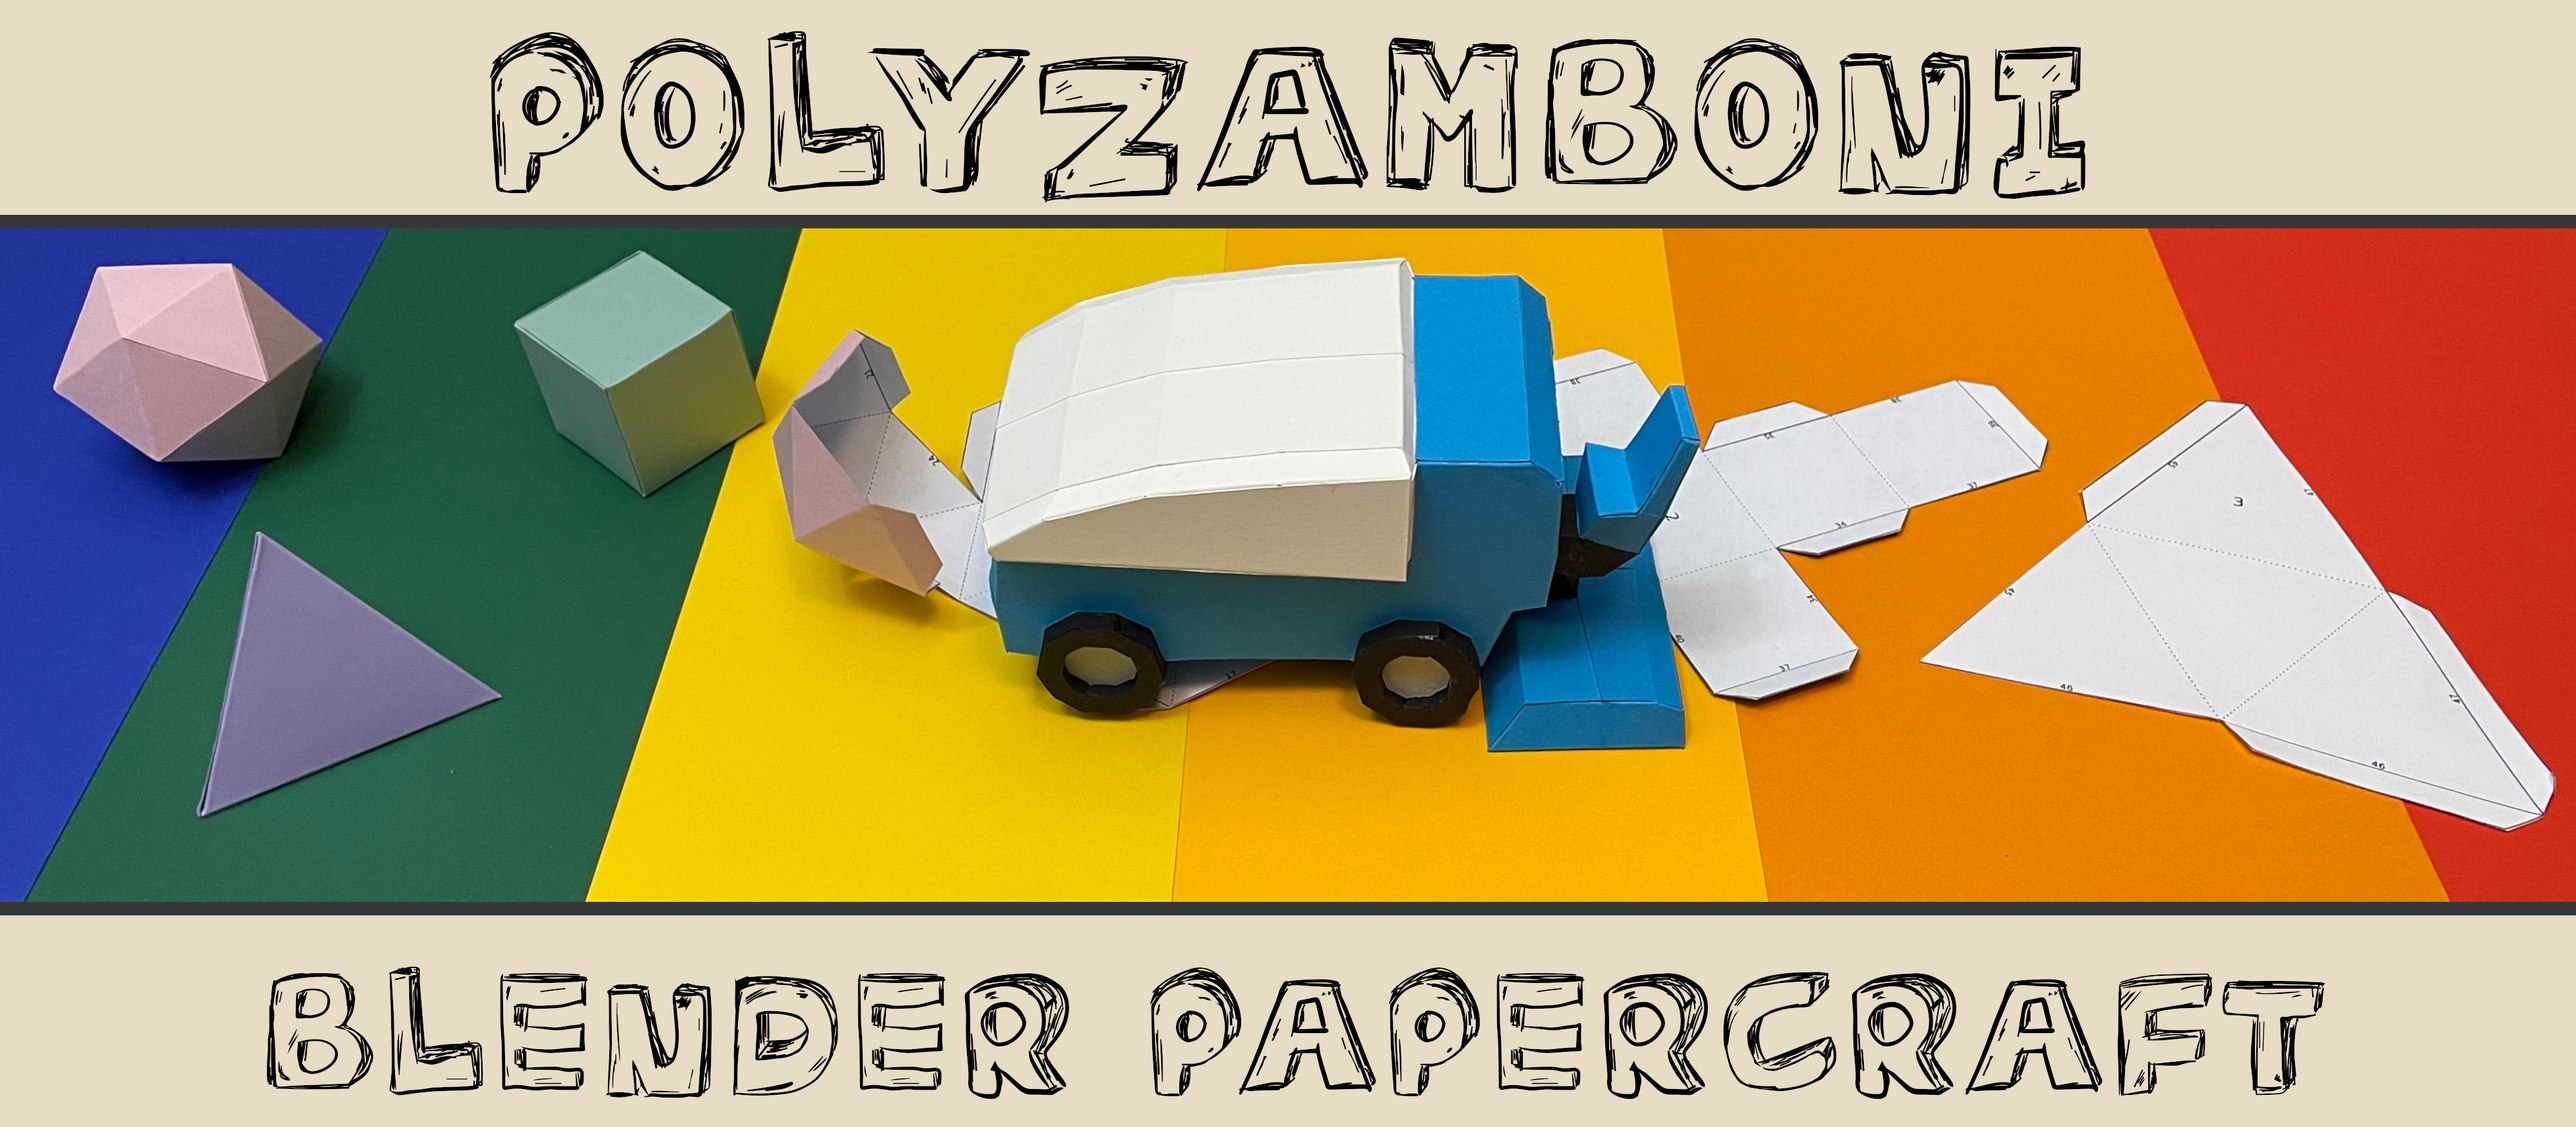
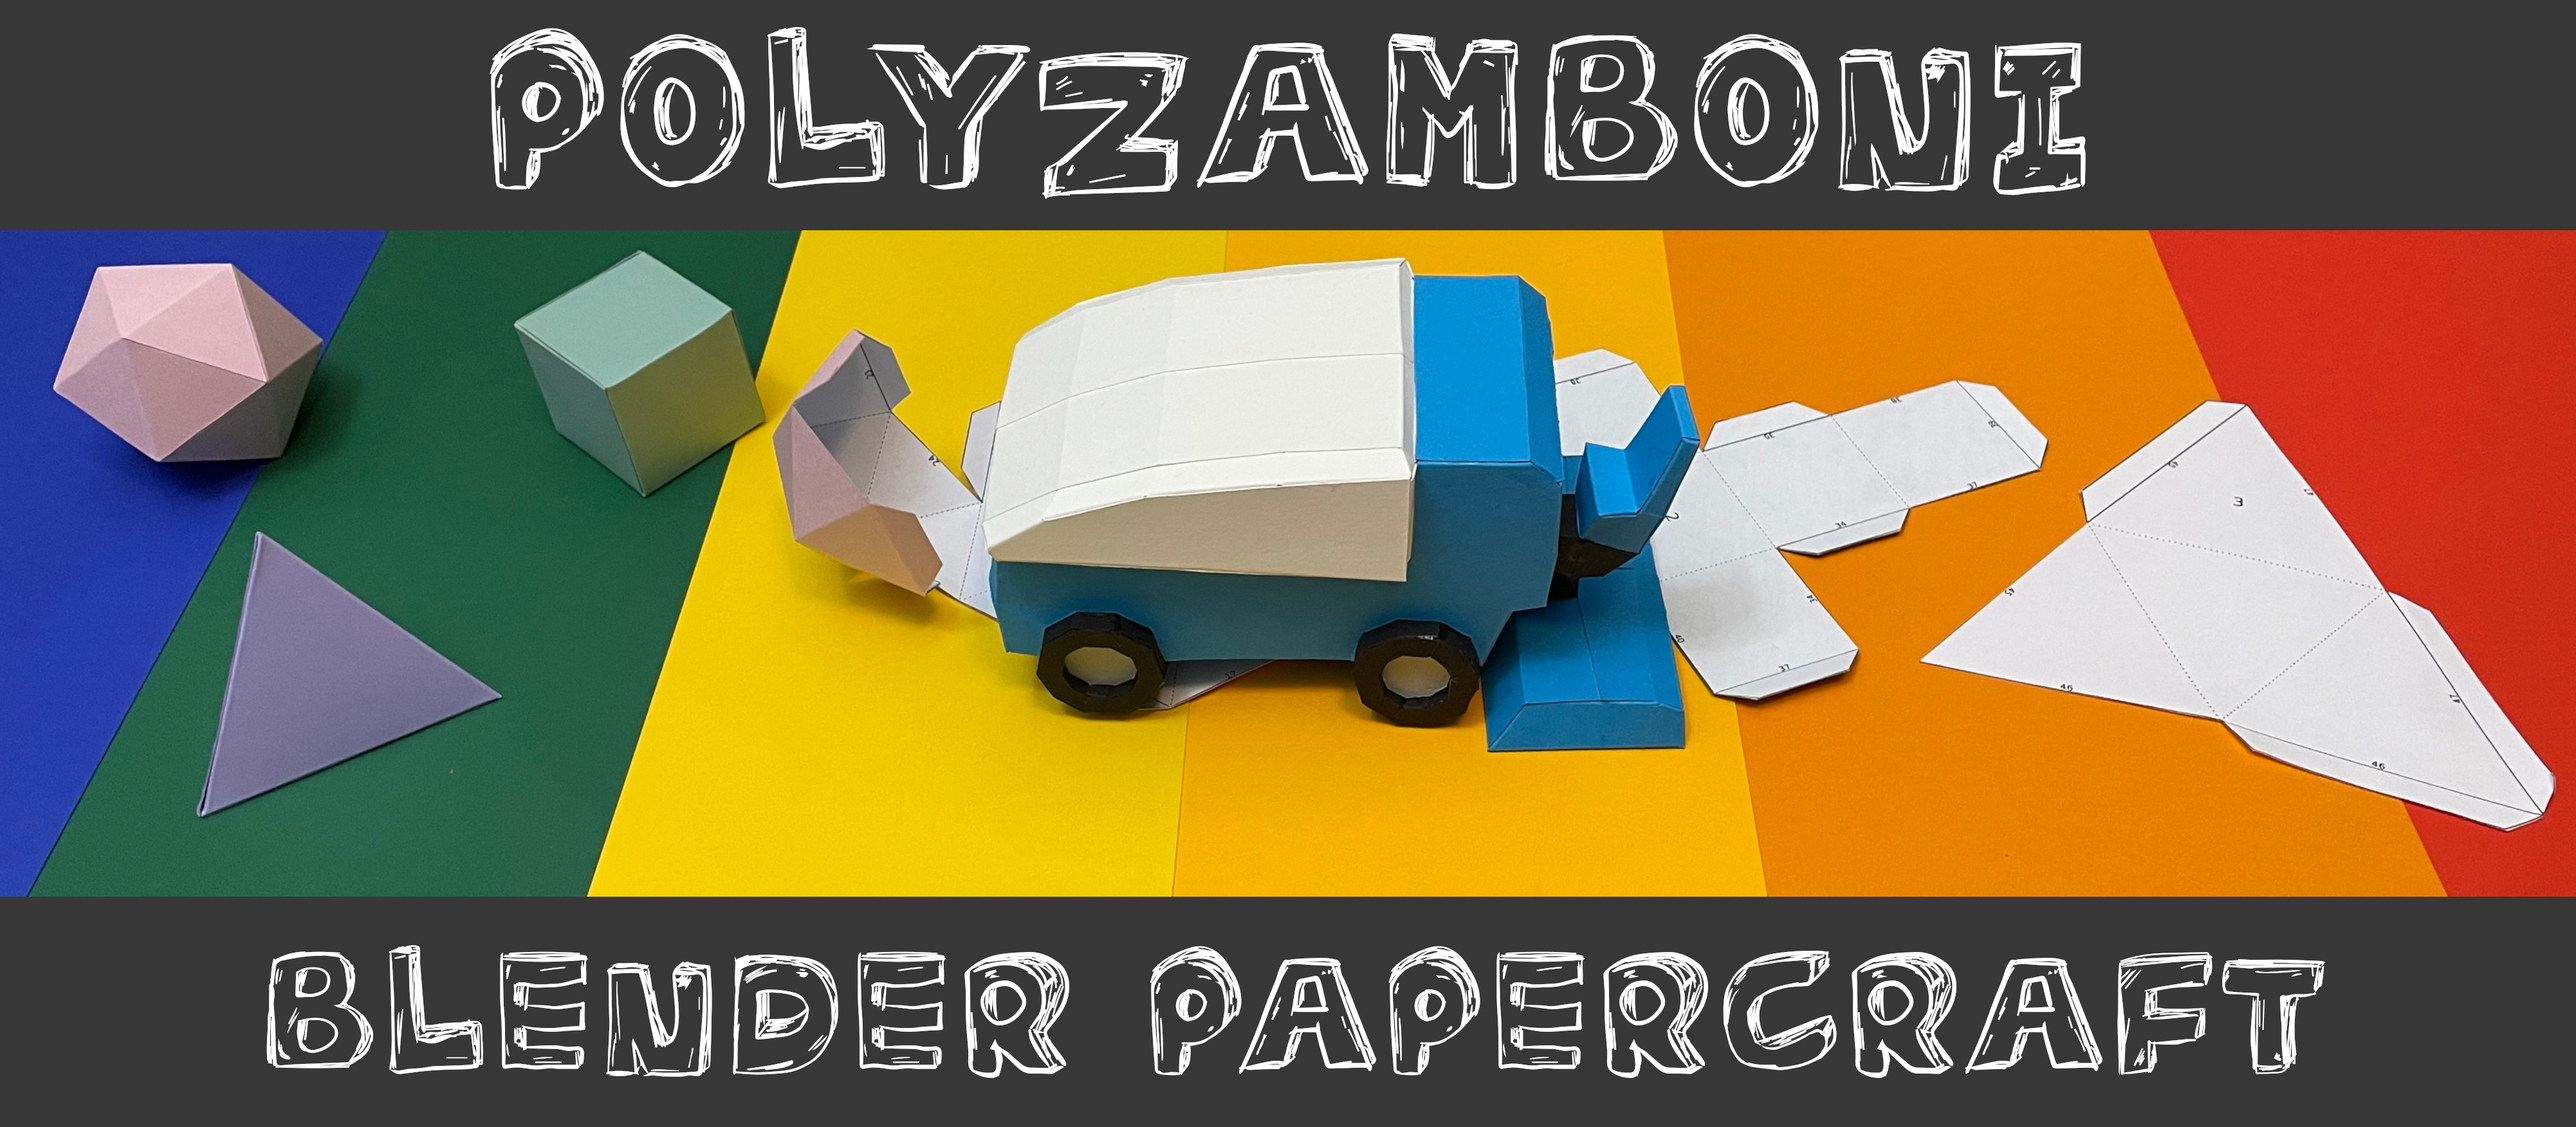
fixed some bugs + readme changes

diff --git a/polyzamboni/geometry.py b/polyzamboni/geometry.py
@@ -88,7 +88,6 @@ def compute_voronoi_areas(mesh : bmesh.types.BMesh):
     for v in mesh.verts:
         voronoi_areas[v.index] = sum([face_areas[f.index] / len(f.verts) for f in v.link_faces])
 
-    # assertion
     assert np.allclose(sum(face_areas.values()), sum(voronoi_areas.values()))
 
     return voronoi_areas
@@ -107,7 +106,6 @@ def compute_planarity_score(face_coords):
 
 def to_local_coords(point_in_3d, frame_orig, base_x, base_y):
     relative_coord = np.asarray(point_in_3d) - frame_orig
-    # project
     return np.array([np.dot(base_x, relative_coord), np.dot(base_y, relative_coord)])
 
 def to_world_coords(point_in_2d, frame_orig, base_x, base_y):
@@ -116,7 +114,7 @@ def to_world_coords(point_in_2d, frame_orig, base_x, base_y):
 def construct_orthogonal_basis_at_2d_edge(v_2d_from, v_2d_to):
     x_ax = np.array(v_2d_to - v_2d_from)
     x_ax = x_ax / np.linalg.norm(x_ax)
-    y_ax = np.array([-x_ax[1], x_ax[0]]) # rotate by 90 degrees
+    y_ax = np.array([-x_ax[1], x_ax[0]]) # rotation by 90 degrees
     return x_ax, y_ax
 
 def construct_2d_space_along_face_edge(v_3d_from, v_3d_to, n_3d):
@@ -134,14 +132,11 @@ def affine_2d_transformation_between_two_2d_spaces_on_same_plane(space_a, space_
     x_ax_b_in_space_a = to_local_coords(space_a[0] + space_b[1], *space_a)
     y_ax_b_in_space_a = to_local_coords(space_a[0] + space_b[2], *space_a)
     A = np.array([[x_ax_b_in_space_a[0], y_ax_b_in_space_a[0]], [x_ax_b_in_space_a[1], y_ax_b_in_space_a[1]]])
-    
-    #print("det of near-rotation matrix:", np.linalg.det(A))
-
     return AffineTransform2D(A, orig_b_in_space_a)
 
 def signed_point_dist_to_line(point, v_a, v_b):
     v_ab = v_b - v_a
-    n = np.array([-v_ab[1], v_ab[0]]) # rotate 90 degree
+    n = np.array([-v_ab[1], v_ab[0]]) # rotation by 90 degrees
     n = n / np.linalg.norm(n)
     return np.dot(n,point - v_a)
 

diff --git a/polyzamboni/callbacks.py b/polyzamboni/callbacks.py
@@ -60,9 +60,7 @@ def try_to_load_cutgraph(obj : bpy.types.Object):
 
 @persistent
 def on_object_select(scene):
-    # print("something may happen now")
     if globals.PZ_LOCK_SELECT_CALLBACK:
-        # print("nah it doesnt")
         return
     any_objects_selected = len(bpy.context.selected_objects) != 0
     active_object = bpy.context.active_object
@@ -80,21 +78,15 @@ def on_object_select(scene):
     if CUT_CONSTRAINTS_PROP_NAME not in active_object and LOCKED_EDGES_PROP_NAME not in active_object:
         globals.PZ_CURRENT_CUTGRAPH_ID = None
         hide_all_drawings()
-        #print("no preexisting cutgraph detected")
         return
     globals.PZ_LOCK_SELECT_CALLBACK = True
-    # print("entering select callback lock")
     if CUTGRAPH_ID_PROPERTY_NAME not in active_object:
-        # print("initializing cutgraph from existing cuts")
         try_to_load_cutgraph(active_object)
-        # print("We now have", len(pz_globals.PZ_CUTGRAPHS), "cutgraphs")
     
     if CUTGRAPH_ID_PROPERTY_NAME in active_object and (globals.PZ_CURRENT_CUTGRAPH_ID is None or globals.PZ_CURRENT_CUTGRAPH_ID != active_object[CUTGRAPH_ID_PROPERTY_NAME]):
-        # print("set a different cut graph as active:", active_object["cut_graph_id"])
         globals.PZ_CURRENT_CUTGRAPH_ID = active_object[CUTGRAPH_ID_PROPERTY_NAME]
         update_all_polyzamboni_drawings(None, bpy.context)
-    # if in_edit_mode:
-    #     update_all_polyzamboni_drawings(None, bpy.context)
+
     globals.PZ_LOCK_SELECT_CALLBACK = False
 
 def get_active_cutgraph_and_pz_settings(context):

diff --git a/polyzamboni/properties.py b/polyzamboni/properties.py
@@ -145,12 +145,12 @@ class GeneralExportSettings(bpy.types.PropertyGroup):
     )
     edge_number_font_size : IntProperty(
         name="Edge number font size",
-        default=8,
+        default=6,
         min = 1
     )
     build_steps_font_size : IntProperty(
         name="Build steps font size",
-        default=16,
+        default=12,
         min=1
     )
     edge_number_color : FloatVectorProperty(
@@ -189,7 +189,7 @@ class GeneralExportSettings(bpy.types.PropertyGroup):
 class LineExportSettings(bpy.types.PropertyGroup):
     line_width: FloatProperty(
         name="Line width",
-        default=1,
+        default=0.5,
         min=0.1,
     )
     hide_fold_edge_angle_th: FloatProperty(
@@ -228,7 +228,7 @@ class LineExportSettings(bpy.types.PropertyGroup):
     )
     edge_number_offset : FloatProperty(
         name="Edge number offset",
-        default=0.001,
+        default=0.0005,
         min=0,
         subtype="DISTANCE"
     )

diff --git a/polyzamboni/exporters.py b/polyzamboni/exporters.py
@@ -1,4 +1,5 @@
 from abc import ABC, abstractmethod
+import platform
 from matplotlib import axes
 import matplotlib.pyplot as plt
 from matplotlib.backends.backend_pdf import PdfPages
@@ -9,6 +10,13 @@ import matplotlib.transforms as mtransforms
 import numpy as np
 from .geometry import AffineTransform2D
 from .printprepper import ComponentPrintData, ColoredTriangleData, CutEdgeData, FoldEdgeData, GlueFlapEdgeData, FoldEdgeAtGlueFlapData
+
+# when testing on macosx, closing a matplotlib plot crashes blender. This is a workaround that kind of works. 
+# if anyone knows a better way of dealing with this problem let me know :)
+if platform.system() == "Darwin":
+    import matplotlib
+    matplotlib.use("agg") # try to use a different backend 
+    
 
 # feel free to add more paper sizes (in cm)
 paper_sizes = {

diff --git a/polyzamboni/cutgraph.py b/polyzamboni/cutgraph.py
@@ -448,6 +448,7 @@ class CutGraph():
         current_connected_component : ConnectedComponent
         for c_id, current_connected_component in self.connected_components.items():
             current_connected_component._unfolding = self.unfold_connected_component(c_id, False)
+            current_connected_component._render_triangles_outdated = True
 
     def update_unfoldings_along_edges(self, edge_ids, skip_intersection_test=False):
         components_to_update = set()

diff --git a/readme.md b/readme.md
@@ -1,8 +1,8 @@
-# PolyZamboni - The ultimate papercraft addon for Blender
+# PolyZamboni - Papercraft in Blender
 
-![screenshot](images/PolyZamboniBannerNoText.jpg)
+![banner](images/PolyZambonibanner.jpg)
 
-Some cool text describing this addon...
+Turn your low-poly creations into papercraft instructions with this Blender addon. You no longer need any additional software or good faith in some automatic unfolding algorithm. PolyZamboni provides you with all tools necessary to create high quality paper models!  
 
 ## Requirements
 This addon uses some external packages not included in the Python installation that comes with Blender. All required packages are listed in `requirements.txt`.
@@ -28,6 +28,27 @@ Make sure to give the correct path to the requirements file by replacing `some_p
 - This installation guide uses Windows path formats, but the same steps should also do the trick on Linux and macOS systems (not tested yet).
 
 ## Addon installation
-Now the addon can be added to blender. For this, zip the `PolyZamboni` folder containing this readme file and the `__init__.py` file. Then go into Blender and go to **Edit-><ins>P</ins>references**. On the top left of the **Add-ons** tab, you can then click on **<ins>I</ins>nstall from Disk** and select the zipped `PolyZamboni` folder. The addon should now be enabled and ready to go.
+Now the addon can be added to blender. For this, zip the `PolyZamboni` folder containing this readme file and the `__init__.py` file. Then go into Blender and go to **Edit-><ins>P</ins>references**. On the top left of the **Add-ons** tab, you can now click on **<ins>I</ins>nstall from Disk** and select the zipped `PolyZamboni` folder. The addon should now be enabled and ready to go.
 
 ![screenshot](images/addon_install_from_disc.png)
+
+## Usage
+With the addon enabled, select any mesh object and navigate to the PolyZamboni panel in the viewport sidebar (toggle with `'N'`) and click on the `Unfold this mesh` button. This starts the unfolding process of the selected mesh with no initial cuts.  
+Not all meshes can be processed by PolyZamboni. The following things prevent this addon from working for your mesh:
+
+1. Non-manifold vertices or edges
+2. Faces that touch at more than one edge
+3. Faces that can not be triangulated via PolyZambonis custom triangulation angorithm
+4. Faces that are highly non-planar
+
+You will get a warning whenever one of these fail-cases occur and the option to select all faces that need to be fixed.
+
+### Get started
+
+<img src ="images/SpotUnfoldingProcess.gif" width=350>
+<img src ="images/SpotUnfoldingResult.png" width=350>
+
+
+### Interactive editing 
+
+<img src ="images/SpotFeedbackAnnotated.png" width=700>
